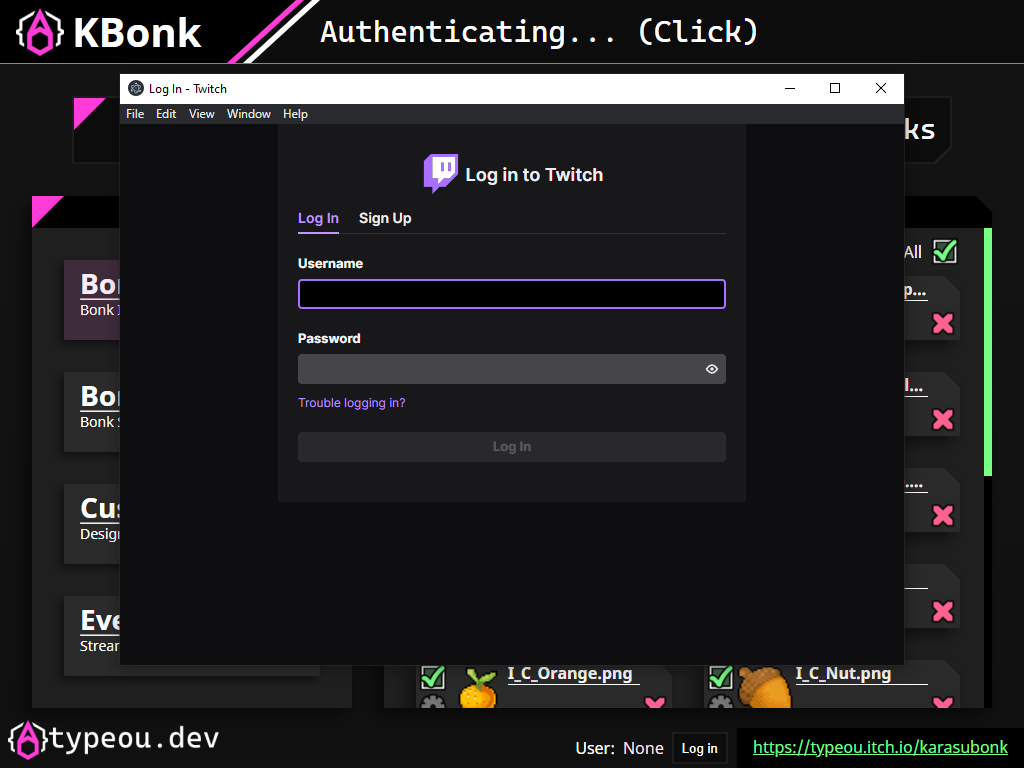
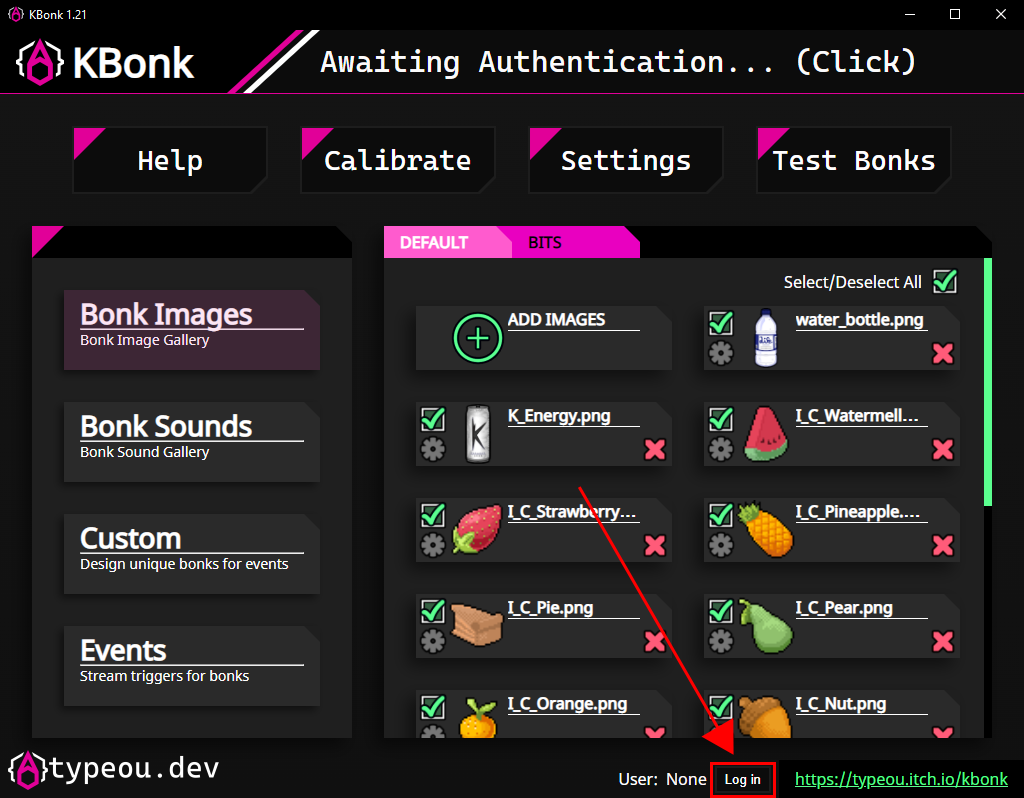
Updated KBonk help to reflect 1.21 authentication method.

diff --git a/kbonk.html b/kbonk.html
@@ -56,10 +56,13 @@
                 <div>
                     <h2 class="center">Part 1: Authentication</h2>
                     
-                    <p>As of version 1.10, KBonk now uses in-app authentication for convenience and reliability. Shortly after opening the program for the first time, you should be greeted with a Twitch login window:</p>
+                    <p>As of version 1.21, KBonk now opens the authentication window in the user's browser.</p>
+                    <p>To start, click the "Log in" button at the bottom of the program.</p>
                     <div class="centerDiv"><img src="kbonk/auth.png"></div>
-                    <p>Simply log in and the program will handle things from there!</p>
-                    <p>If you encounter issues or need to switch users, click the "Log out" button at the bottom of the page, which will allow the window to appear again.</p>
+                    <p>If you're not already logged into Twitch on your default browser, log in and click "Authorize" on the page that follows.</p>
+                    <div class="centerDiv"><img src="kbonk/auth2.png"></div>
+                    <p>After a moment, you should see text that reads "You may now close this window and return to KBonk." You should now be successfully logged in, and KBonk should now display your username at the bottom!</p>
+                    <p>If you encounter issues or need to switch users, click the "Log out" button at the bottom of the page and follow these steps again.</p>
                 </div>
             </div>
 
